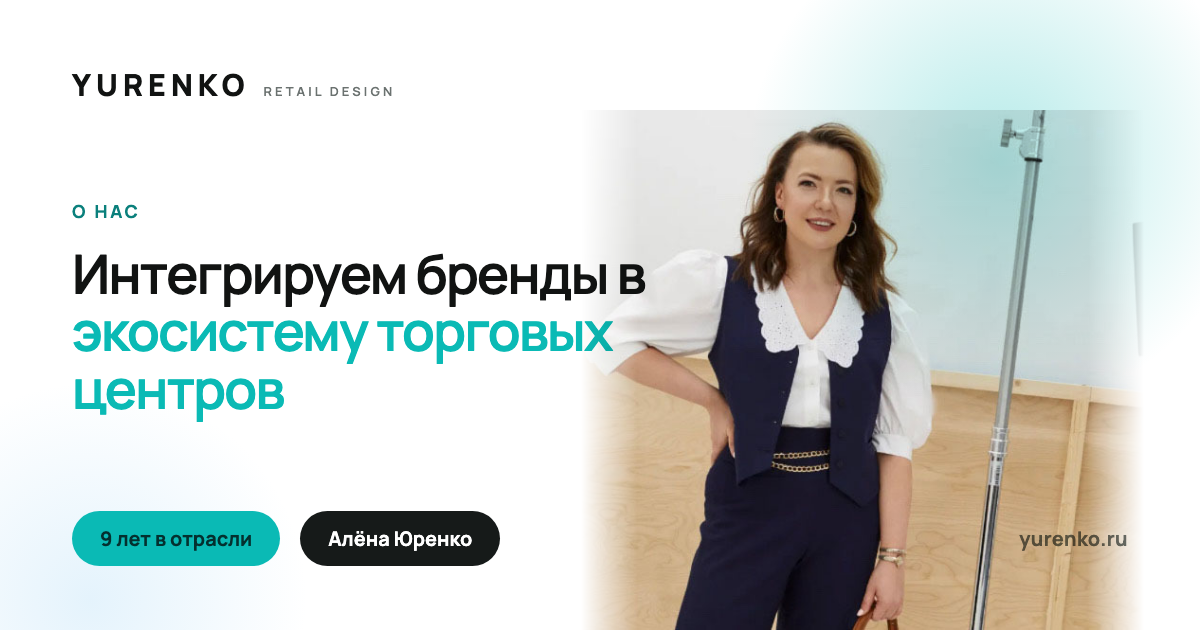
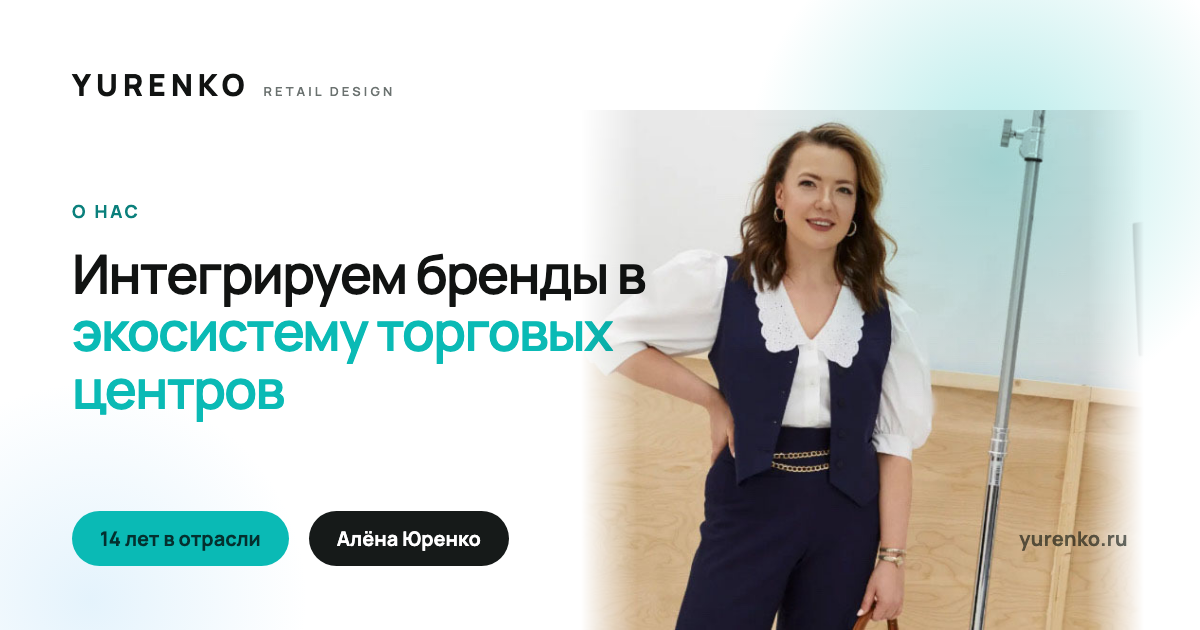
Новая биография Алёны, приглашение стать гостем выпуска, аудиокнига
- Биография на /about/ переписана по тексту от клиента: 14 лет в отрасли
  (7 корпоративных + 7 независимой практики), четыре точки зрения на
  retail-пространство, ссылка на Telegram-канал внутри текста, новая
  финальная цитата. Цифра «9 лет» заменена на «14 лет» везде на сайте
  (бегущая строка на главной, статистика и OG-карточка «О нас»).
- На /revizor/ в блок подписки добавлено приглашение стать участником
  выпуска с обзором бренда, ТЦ или своей экспертизы — ссылка на контакты.
- Третья кнопка в хиро «Ревизорро» — аудиокнига «Мерчандайзинг и витрина»
  (ссылка на Taplink).

Changed region(s): [[0.0617, 0.8143, 0.4317, 0.9048]]

diff --git a/pages/revizor.html b/pages/revizor.html
@@ -22,6 +22,7 @@ og: revizor
     <div class="row mt-32">
       <a class="btn btn-accent btn-lg" href="https://t.me/revizorro_aliona" target="_blank" rel="noopener">Телеграм-канал</a>
       <a class="btn btn-ghost btn-lg" href="https://www.youtube.com/channel/UCorCgZWr7gKOBNdE6UqPQjg" target="_blank" rel="noopener">YouTube-канал</a>
+      <a class="btn btn-ghost btn-lg" href="https://taplink.cc/merchandising_rus" target="_blank" rel="noopener">Аудиокнига «Мерчандайзинг и витрина»</a>
     </div>
   </div>
 </section>
@@ -209,6 +210,7 @@ og: revizor
           <p class="eyebrow">Подписка</p>
           <h2 class="h2 mt-16">Узнавайте о новых выпусках <span class="hl">первыми</span></h2>
           <p class="lead mt-16">Раз в месяц присылаем подборку выпусков, наблюдений с площадок и анонсы обучений. Без спама — обещаем быть полезными.</p>
+          <p class="small mt-24">Хотите стать участником выпуска с обзором бренда-магазина, торгового центра или своей экспертизы? <a href="/contacts/">Напишите нам</a>.</p>
         </div>
         <form class="stack-16" data-lead="revizor-subscribe">
           <div class="field"><label for="rv-e">E-mail</label><input class="input" id="rv-e" name="email" type="email" required placeholder="you@company.ru"></div>

diff --git a/pages/index.html b/pages/index.html
@@ -82,7 +82,7 @@ jsonld: {"@context":"https://schema.org","@type":"ProfessionalService","@id":"ht
 <section style="padding-block:0 var(--s80)">
   <div class="marquee">
     <div class="marquee-track">
-      <span class="marquee-item">9 лет в ритейл-дизайне</span>
+      <span class="marquee-item">14 лет в ритейл-дизайне</span>
       <span class="marquee-item">18 торговых центров</span>
       <span class="marquee-item">130 000 м² средняя площадь объекта</span>
       <span class="marquee-item">800+ брендов открыты по стандартам</span>
@@ -91,7 +91,7 @@ jsonld: {"@context":"https://schema.org","@type":"ProfessionalService","@id":"ht
       <span class="marquee-item">3 страны</span>
       <span class="marquee-item">Приглашённый тренер Skillbox</span>
       <span class="marquee-item">Официальный блогер при совете ТЦ</span>
-      <span class="marquee-item">9 лет в ритейл-дизайне</span>
+      <span class="marquee-item">14 лет в ритейл-дизайне</span>
       <span class="marquee-item">18 торговых центров</span>
       <span class="marquee-item">130 000 м² средняя площадь объекта</span>
       <span class="marquee-item">800+ брендов открыты по стандартам</span>
